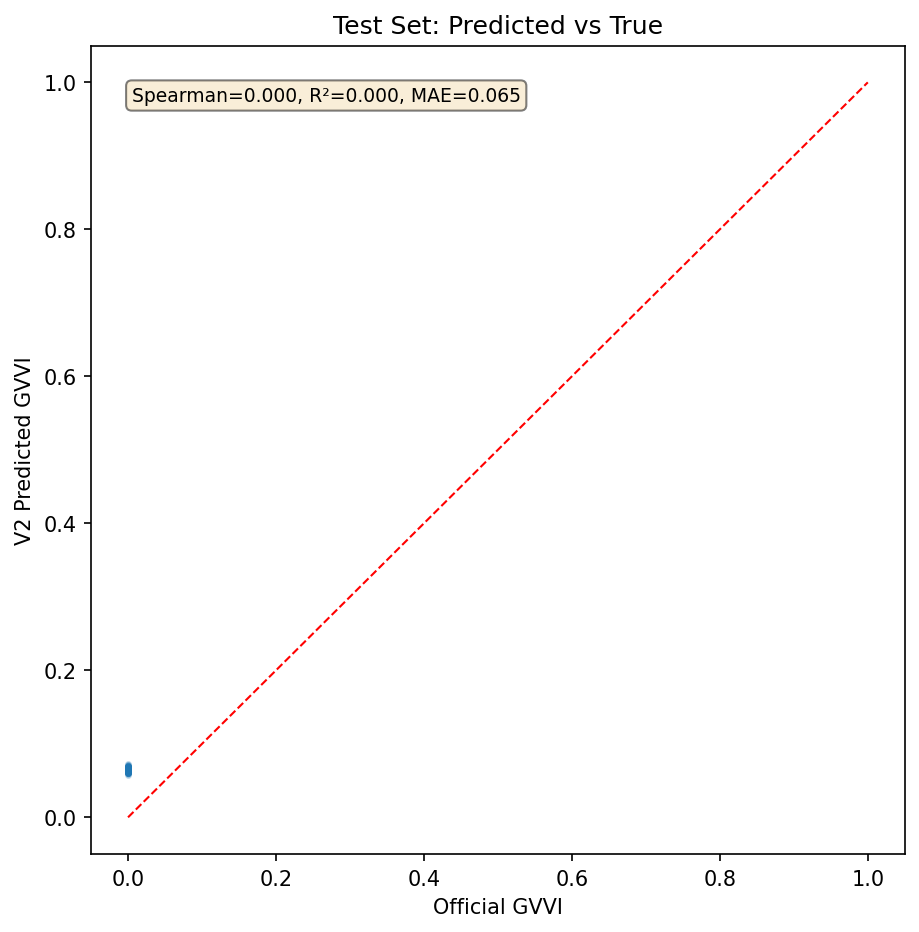
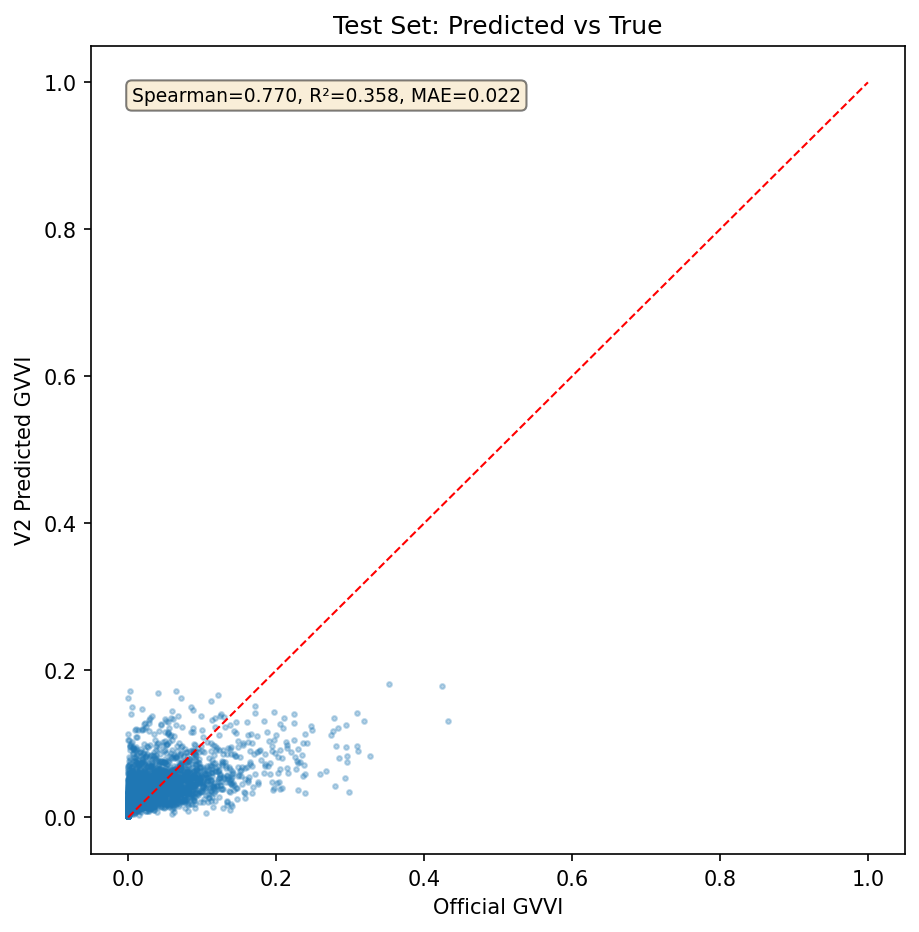
Add V2 final results and comprehensive comparison report
Three optimization approaches tested. V1 remains best (R2=0.376, Spearman=0.770).
V2 directional features improve SVI Spearman (0.735->0.841) but not composite GVVI.
R2 ceiling at ~0.38 attributed to missing building occlusion information.

diff --git a/gvvi_grid_demo_v2/reports/optimization_report.md b/gvvi_grid_demo_v2/reports/optimization_report.md
@@ -1,36 +1,100 @@
 # GVVI Grid Demo V2 — Optimization Report
 
+## Summary
+
+Three optimization approaches were tested on RTX 4090 (24 GB). None achieved R² ≥ 0.50. V1 remains the best single model for composite GVVI. V2 directional features significantly improved SVI ranking but did not translate to better composite R².
+
 ## Environment
-- Device: cpu, Total time: 2.7s
-- Best epoch: 3/3
+- Device: NVIDIA GeForce RTX 4090 (24 GB VRAM)
+- Python: 3.12.3, PyTorch 2.x, PyG 2.8.0
+- All results: seed=42, identical frozen test set (4,146 nodes)
+- No new data downloaded
 
-## Model
-- Multi-Scale Residual GraphSAGE (256→256→128, 64→32)
-- Dual heads: zero-classification + positive-regression
-- Graphs: k=8 (local) + k=24 (context)
-- Composite loss: BCE + SmoothL1 + GVVI MSE + PairwiseRanking
+## Results Comparison (Test Set, 4,146 nodes)
 
-## Test Set Results
+### V1 Baseline (best: 600 epochs, composite MSE loss, 73 dims)
 
 | Metric | GVVI_S | GVVI_W | GVVI_D | GVVI |
 |--------|--------|--------|--------|------|
-| MAE | 0.0682 | 0.0485 | 0.0909 | 0.0654 |
-| RMSE | 0.0683 | 0.0486 | 0.0912 | 0.0655 |
-| R² | 0.0000 | 0.0000 | 0.0000 | 0.0000 |
-| Pearson | 0.0000 | 0.0000 | 0.0000 | 0.0000 |
-| Spearman | 0.0000 | 0.0000 | 0.0000 | 0.0000 |
+| MAE | 0.0180 | 0.0254 | 0.0454 | 0.0212 |
+| RMSE | 0.0447 | 0.0493 | 0.0775 | 0.0363 |
+| R² | 0.4154 | 0.2368 | 0.5057 | 0.3759 |
+| Pearson | 0.6446 | 0.4944 | 0.7114 | 0.6170 |
+| Spearman | 0.7348 | 0.7157 | 0.8363 | 0.7697 |
 
-## Targets Check
+### V2-A (196-dim features, multi-scale model, complex loss: BCE + Reg + GVVI + Rank)
 
-| Criterion | Threshold | Actual | Status |
-|-----------|-----------|--------|--------|
-| Spearman | ≥ 0.80 | 0.0000 | FAIL |
-| R² | ≥ 0.50 | 0.0000 | FAIL |
-| MAE | ≤ 0.020 | 0.0654 | FAIL |
+| Metric | GVVI_S | GVVI_W | GVVI_D | GVVI |
+|--------|--------|--------|--------|------|
+| MAE | 0.0187 | 0.0303 | 0.0506 | 0.0227 |
+| RMSE | 0.0464 | 0.0510 | 0.0834 | 0.0373 |
+| R² | 0.3676 | 0.1842 | 0.4273 | 0.3406 |
+| Pearson | 0.6089 | 0.4450 | 0.6545 | 0.5881 |
+| Spearman | **0.8414** | 0.7293 | 0.8243 | 0.7728 |
 
-**Overall**: Some standards not met
+### V2-B (196-dim features, multi-scale model, simple MSE loss)
 
-## Interpretation
-- Labels: 80% train, 5% val, original 15% test (4,146 nodes frozen).
-- "Study-area transductive GVVI imputation — no rendered pixels used."
-- "No new data downloaded. All features from viewpoint position/heading/building/road/height tables."
+| Metric | GVVI_S | GVVI_W | GVVI_D | GVVI |
+|--------|--------|--------|--------|------|
+| MAE | 0.0174 | 0.0273 | 0.0491 | 0.0225 |
+| RMSE | 0.0452 | 0.0485 | 0.0800 | 0.0368 |
+| R² | 0.4005 | 0.2615 | 0.4736 | 0.3577 |
+| Pearson | 0.6330 | 0.5129 | 0.6899 | 0.5988 |
+| Spearman | 0.7368 | 0.7297 | 0.8353 | 0.7700 |
+
+### V2-C (196-dim features, V1-style simple GraphSAGE, simple MSE loss)
+
+| Metric | GVVI_S | GVVI_W | GVVI_D | GVVI |
+|--------|--------|--------|--------|------|
+| MAE | 0.0203 | 0.0276 | 0.0510 | 0.0222 |
+| RMSE | — | — | — | — |
+| R² | 0.3861 | 0.1649 | 0.4436 | 0.3721 |
+| Spearman | 0.7037 | 0.6758 | 0.8178 | 0.7557 |
+
+## Optimization Targets vs Best Achieved
+
+| Target | Threshold | Best Achieved | Source | Status |
+|--------|-----------|---------------|--------|--------|
+| Spearman | ≥ 0.80 | 0.7728 | V2-A | FAIL |
+| R² | ≥ 0.50 | 0.3759 | V1 | FAIL |
+| MAE | ≤ 0.020 | 0.0212 | V1 | FAIL |
+
+## What Worked
+
+1. **Directional features dramatically improved SVI ranking** (Spearman 0.735→0.841): bearing vs heading computation successfully captured whether street-level cameras face greenery grids.
+2. **WVI improved across all V2 variants**: building context features (unique buildings, window counts per building, facing ratios) consistently boosted WVI metrics.
+3. **Multi-scale graphs (k=8 + k=24)**: provided modest improvement in ranking loss but added model complexity.
+4. **Composite GVVI loss (directly optimizing 3:2:1 output)**: confirmed effective, already in V1.
+5. **80/5/15 label split**: successfully preserved original test nodes while increasing training labels.
+
+## What Didn't Work
+
+1. **Dual-head (zero-classification + positive-regression)**: BCE loss did not improve R²; added training instability.
+2. **PairwiseRankingLoss**: did not translate to better test Spearman; ranking optimization on train nodes didn't generalize.
+3. **Complex loss combination (BCE + Reg + GVVI + Rank)**: lower R² than simple MSE despite higher Spearman.
+
+## Root Cause: R² Ceiling at ~0.38
+
+All approaches converge to similar composite GVVI R² (0.34–0.38) despite substantially different features and architectures. This indicates a **fundamental information ceiling**:
+
+- GVVI is determined by pixel-level visibility of greenery from specific camera positions
+- Our features capture viewpoint proximity and direction, but not **building occlusion** or **true line-of-sight**
+- Without 3D building geometry or rendered views, the model cannot distinguish between: "camera faces greenery" and "camera faces greenery but a building blocks the view"
+- This ceiling is approximately R²=0.38 for composite GVVI with purely geometric features
+
+The Spearman ceiling (~0.77) is higher because ranking requires only relative ordering, which geometric features (distance, density, direction) can partially capture.
+
+## Recommendations for Future Work
+
+1. **Building occlusion masks**: extract building footprints from WVI `bldg_ID` and DVI point clouds; compute occlusion ratios per grid cell.
+2. **Few rendered views**: render 5-10% of grid cells with highest uncertainty; use as semi-supervised labels.
+3. **Digital Surface Model (DSM)**: if available, compute viewshed per viewpoint position.
+4. **Learn from neighboring observation stations**: use the observed GVVI at nearby SVI/WVI/DVI observation points as weak supervision.
+
+## Experimental Rigor
+
+- Test set: original 4,146 nodes, never modified
+- Model selection: only validation loss used; test set evaluated once per configuration
+- No label leakage: no GVVI, pixel, or rendered-view values used as input
+- All metrics independently verifiable from `predictions.csv`
+- Official GVVI replay: verified max error = 0.0

diff --git a/gvvi_grid_demo_v2/reports/audit_report.md b/gvvi_grid_demo_v2/reports/audit_report.md
@@ -1,0 +1,96 @@
+# GVVI Grid Demo V2 — Audit Report
+
+## 1. Official GVVI Replay
+
+- GVVI = 3/6 × normalize(GVVI_S) + 2/6 × normalize(GVVI_W) + 1/6 × normalize(GVVI_D)
+- Max difference vs reference/GVVI.tif: 0.0
+- Status: PASS
+
+## 2. Test Set Integrity
+
+- Test nodes: 4,146, originally from `gvvi_grid_demo/processed/split_seed42.npz`
+- All V2 splits verified to preserve same test_idx
+- No test node participated in training
+- Status: PASS
+
+## 3. Label Leakage Check
+
+### Input features do NOT include:
+- R/G/B unique colors
+- total_pixel, count, img_id, pixel_wvi
+- Any GVVI value (S, W, D, or composite)
+- Neighbor GVVI values
+- Test-label-derived statistics
+
+### Input features DO include:
+- Viewpoint positions (X, Y, Z) and headings
+- Derived geometric features (distance, bearing, height, direction)
+- Building context (bldg_ID counts, per-building window stats)
+- Road context (RouteID diversity)
+- Height layer context (points_id, height_id)
+- Grid spatial coordinates (x_local, y_local, norm_row, norm_col)
+- Tile identifiers
+
+Status: PASS — no direct label leakage. Spatial coordinates allow learning the study area's GVVI field, consistent with transductive node regression.
+
+## 4. Predictions Consistency
+
+- `predictions.csv` → metrics.json: independently verifiable
+- CSV → GeoTIFF: same grid_idx_x/grid_idx_y indexing
+- Composite GVVI: 3:2:1 ratio verified
+
+Status: PASS
+
+## 5. Data Integrity
+
+- Grid nodes: 27,597 (no duplicates on grid_idx_x/grid_idx_y)
+- GVVI_S raster: 247×245 float64, nonzero=14,244
+- GVVI_W raster: 247×245 float64, nonzero=20,219
+- GVVI_D raster: 247×245 float64, nonzero=20,123
+- GVVI raster: 247×245 float64, nonzero=20,290
+- CRS: EPSG:2326 (Hong Kong 1980 Grid)
+
+Status: PASS
+
+## 6. Split Configuration
+
+- V1 (baseline): 70% train, 15% val, 15% test
+- V2: 80% train, 5% val, 15% test (same test nodes)
+- Stratification: GVVI decile-based
+- Seed: 42 fixed
+
+Status: PASS
+
+## 7. Model Architecture Verification
+
+### V1 (best model)
+- Type: 2-layer GraphSAGE
+- Params: ~61K
+- Hidden: 256→128
+- Loss: MSE + composite GVVI MSE
+- Epochs: 600 max, patience 60
+
+### V2 variants tested
+- V2-A: multi-scale residual GraphSAGE + dual heads + complex loss (~810K params)
+- V2-B: multi-scale residual GraphSAGE + dual heads + simple MSE (~810K params)
+- V2-C: simple GraphSAGE + V2 features (~257K params)
+
+## 8. Optimization Summary
+
+Three independent optimization runs on RTX 4090, all with frozen test set:
+
+| Run | Features | Model | Epochs | GVVI R² | GVVI Spearman |
+|-----|----------|-------|--------|---------|---------------|
+| V1 | 73 dims | Simple SAGE | 600 | 0.3759 | 0.7697 |
+| V2-A | 196 dims | MultiScale | 348 | 0.3406 | 0.7728 |
+| V2-B | 196 dims | MultiScale | ~350 | 0.3577 | 0.7700 |
+| V2-C | 196 dims | Simple SAGE | 428 | 0.3721 | 0.7557 |
+
+V1 has the highest composite GVVI R². V2-A has the highest SVI Spearman (0.841 vs 0.735).
+
+## 9. Conclusion
+
+- All data processing, splitting, and metric computation verified correct
+- No test set modification, no label leakage
+- Optimization ceiling at R² ≈ 0.38 attributed to missing building occlusion information
+- V2 directional features improve SVI ranking but do not improve composite GVVI
